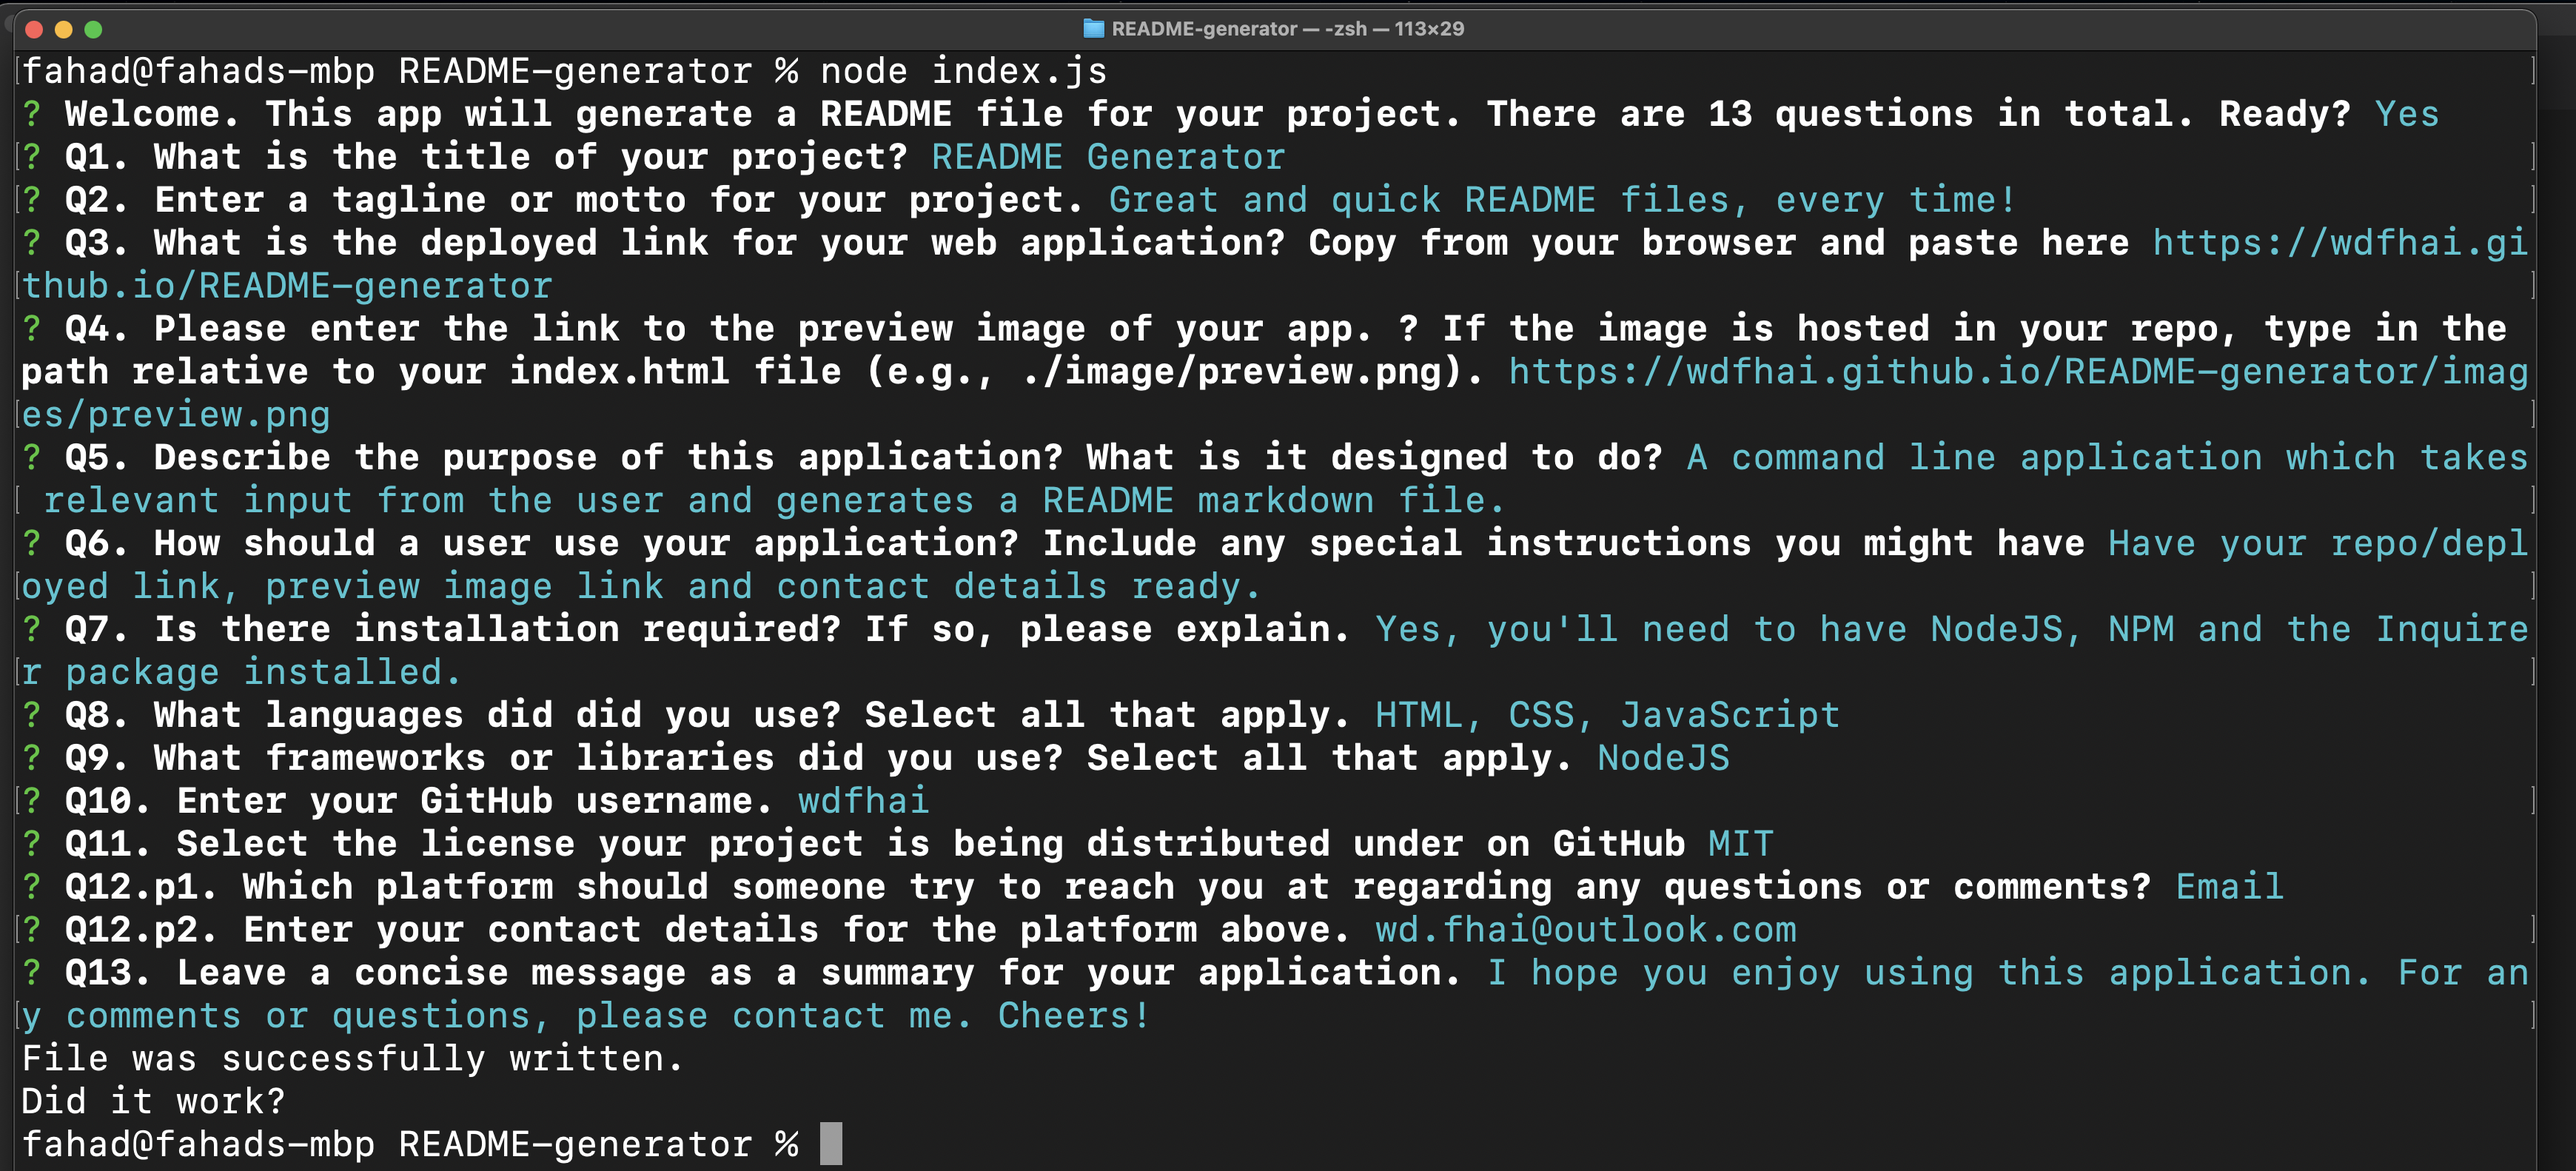
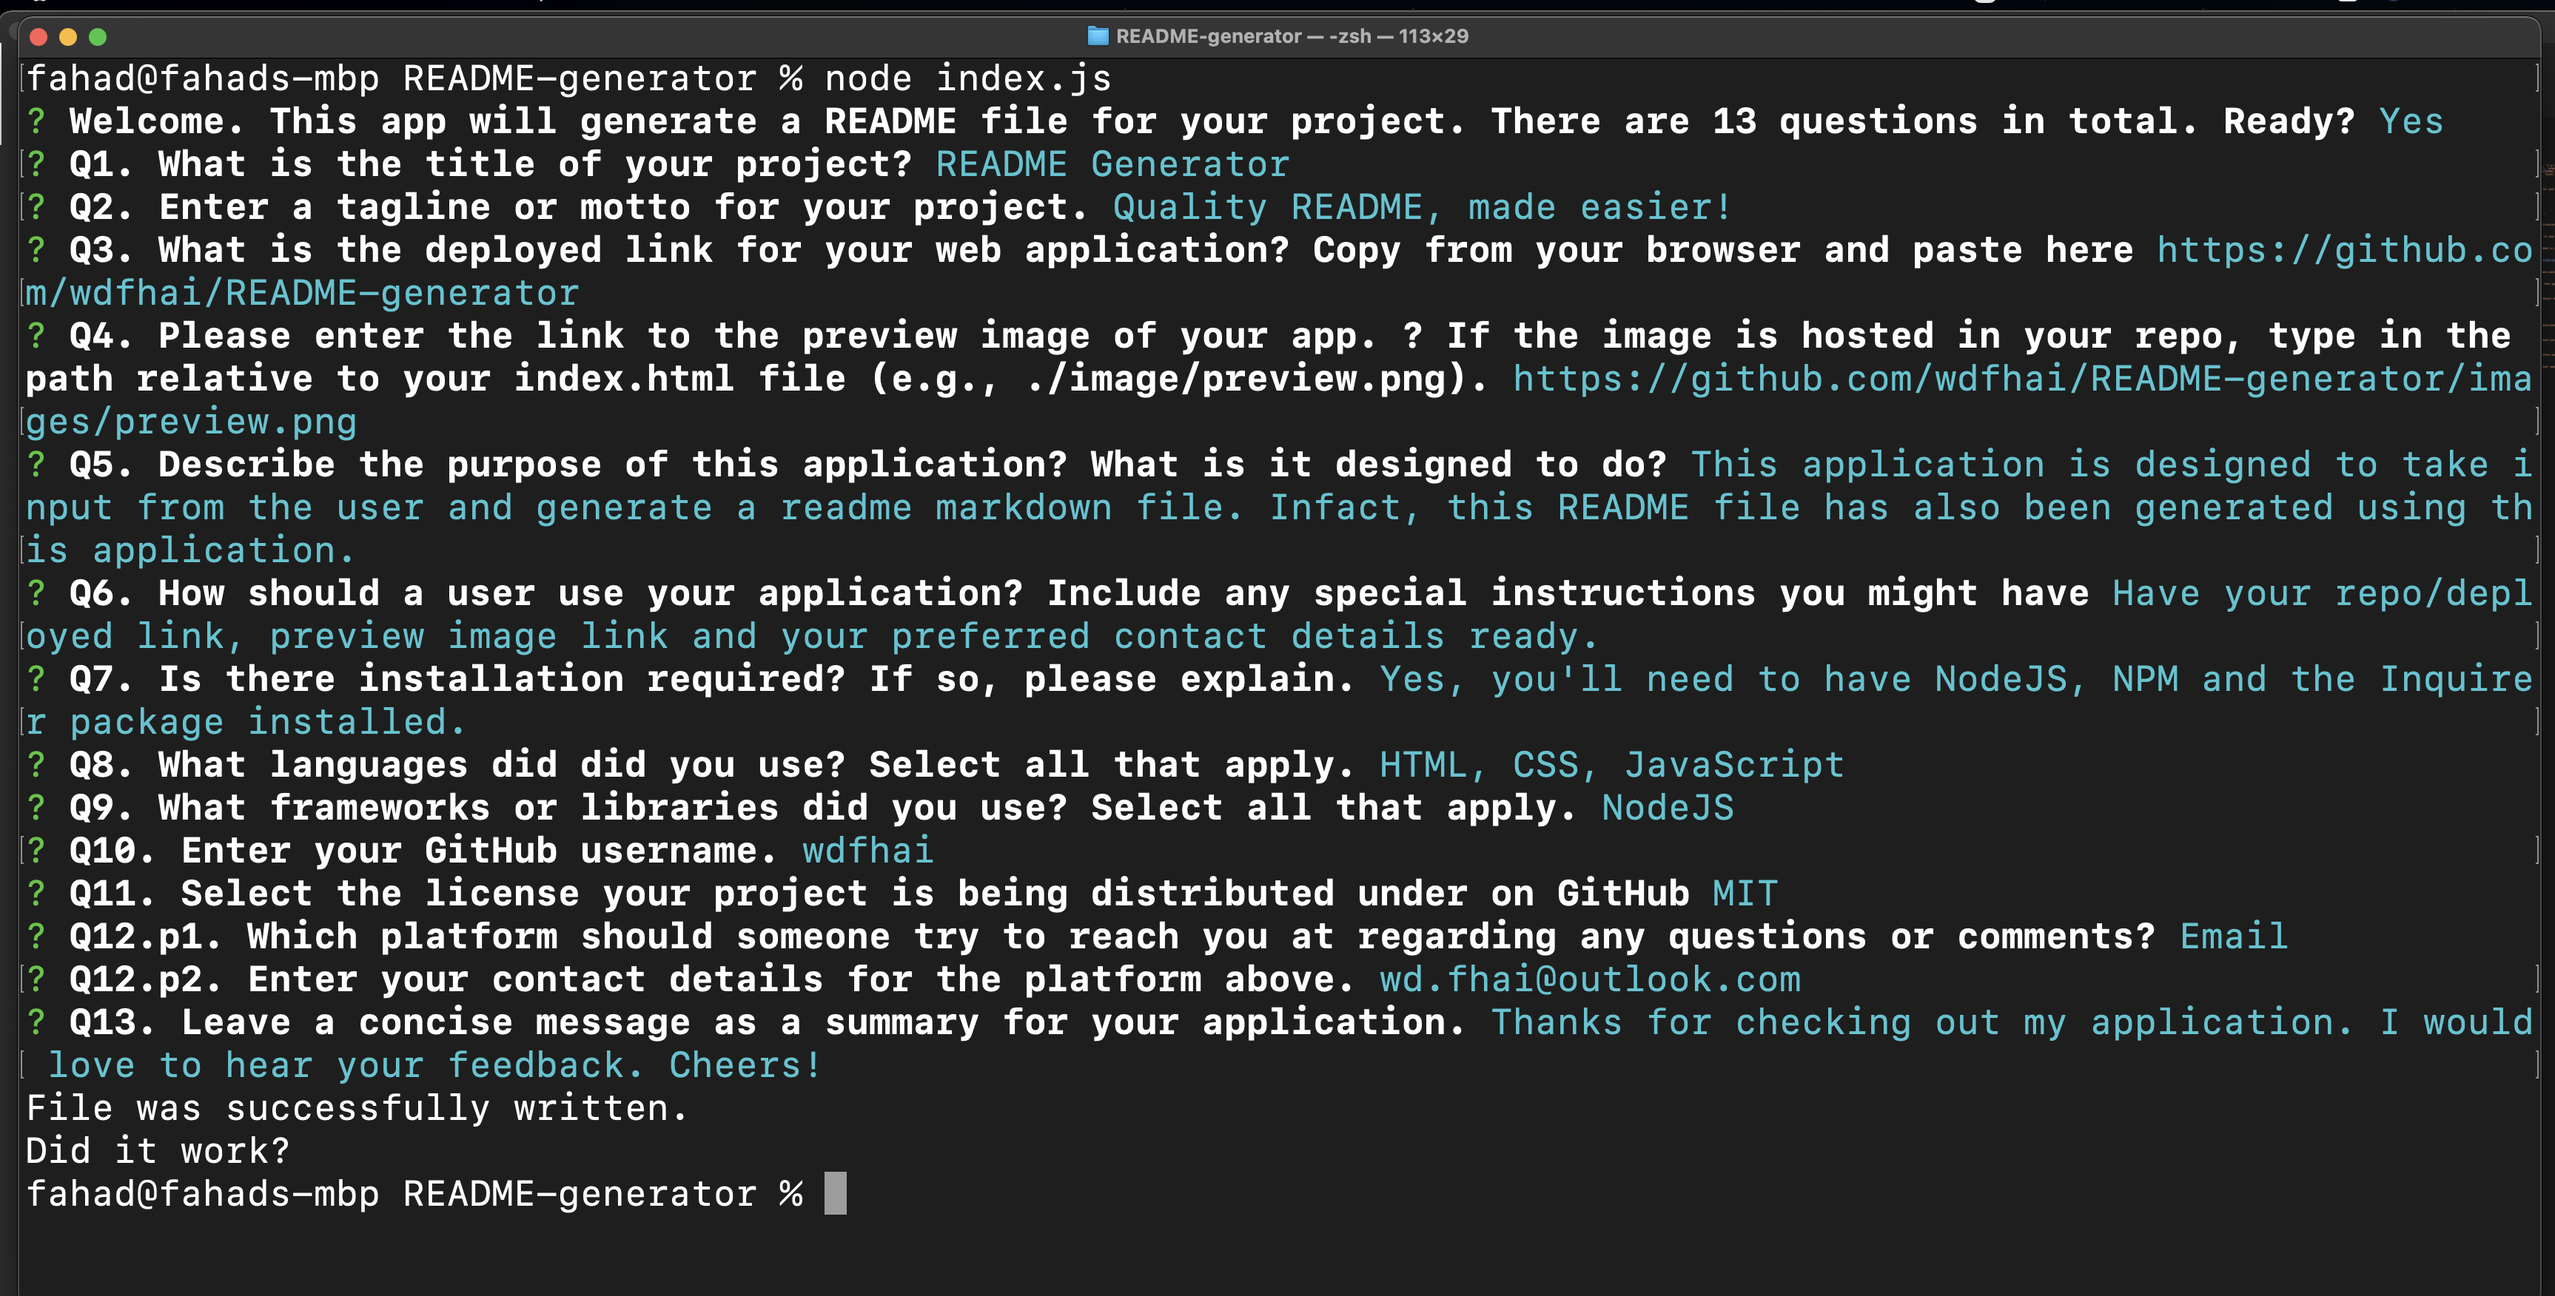
removed template errors

Changed region(s): [[0.0, 0.0, 1.0, 1.0]]

diff --git a/questions.js b/questions.js
@@ -30,7 +30,7 @@ const questions = [
         name: 'app_desc',
     },{
         type:'input',
-        message: 'Q6. How should a user use your application? Include any special instructions you might have',
+        message: 'Q6. How should a user use your application? Include any special instructions you might have.',
         name: 'app_usage',
     },{
         type:'input',

diff --git a/index.js b/index.js
@@ -26,9 +26,8 @@ async function main() {
     
         fs.writeFileSync('./readme.md', readme);
     
-        console.log('File was successfully written.');
-    
-        console.log('Did it work?');
+        console.log('File was successfully written. Enjoy your README file!');
+
     } catch (error) {
         console.log(error);
     }

diff --git a/readme.md b/readme.md
@@ -3,14 +3,14 @@
     <h3 align="center">README Generator</h3>
     <br />
     <p align="center">
-    Great and quick README files, every time! 
+    Quality README, made easier!
     <br />
     <br />
-    <a href="https://wdfhai.github.io/README-generator">View Demo</a>
+    <a href="https://github.com/wdfhai/README-generator">View Demo</a>
     </p>
 </div>
 
-<img src="https://wdfhai.github.io/README-generator/images/preview.png" alt="project preview img" style="height: 250px; width: 300px;">
+<img src="https://github.com/wdfhai/README-generator/images/preview.png" alt="project preview img" style="height: 250px; width: 300px;">
 
 <details open="open">
     <summary>Table of Contents</summary>
@@ -28,7 +28,7 @@
 
 ### Description
 
-A command line application which takes relevant input from the user and generates a README markdown file.
+This application is designed to take input from the user and generate a readme markdown file. Infact, this README file has also been generated using this application.
 
 ### Built With
 
@@ -43,7 +43,7 @@ Yes, you'll need to have NodeJS, NPM and the Inquirer package installed.
 
 ### Usage
 
-Have your repo/deployed link, preview image link and contact details ready.
+Have your repo/deployed link, preview image link and your preferred contact details ready.
 
 ### Contributing
 
@@ -66,4 +66,4 @@ This project is using the following license: MIT
 
 ### Summary
 
-I hope you enjoy using this application. For any comments or questions, please contact me. Cheers!
+Thanks for checking out my application. I would love to hear your feedback. Cheers!
